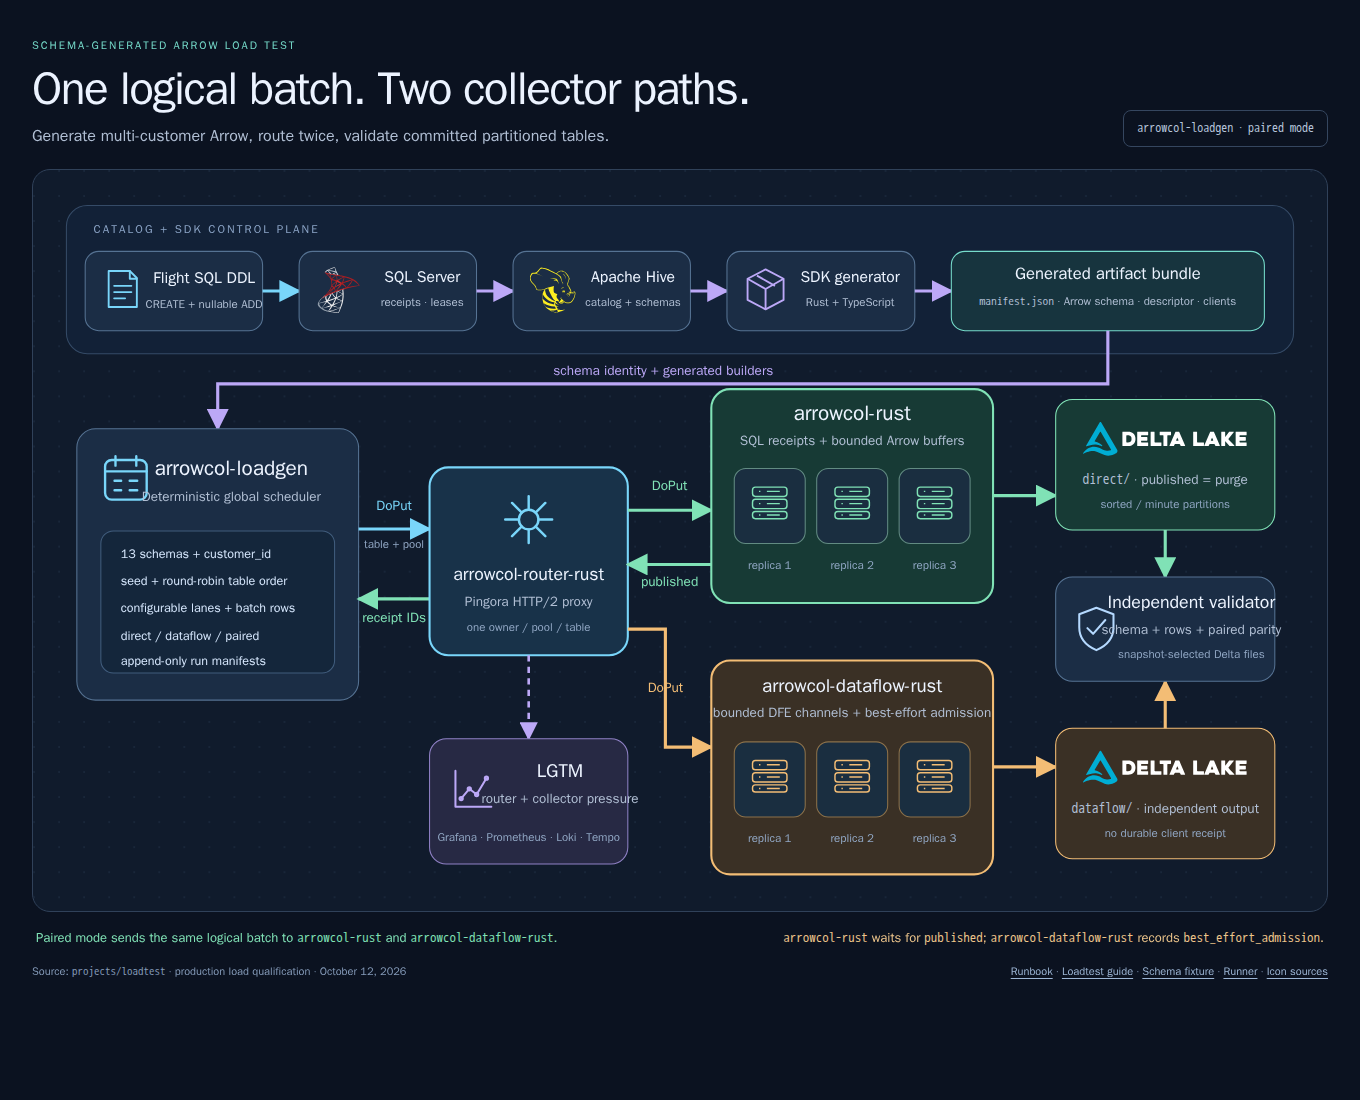
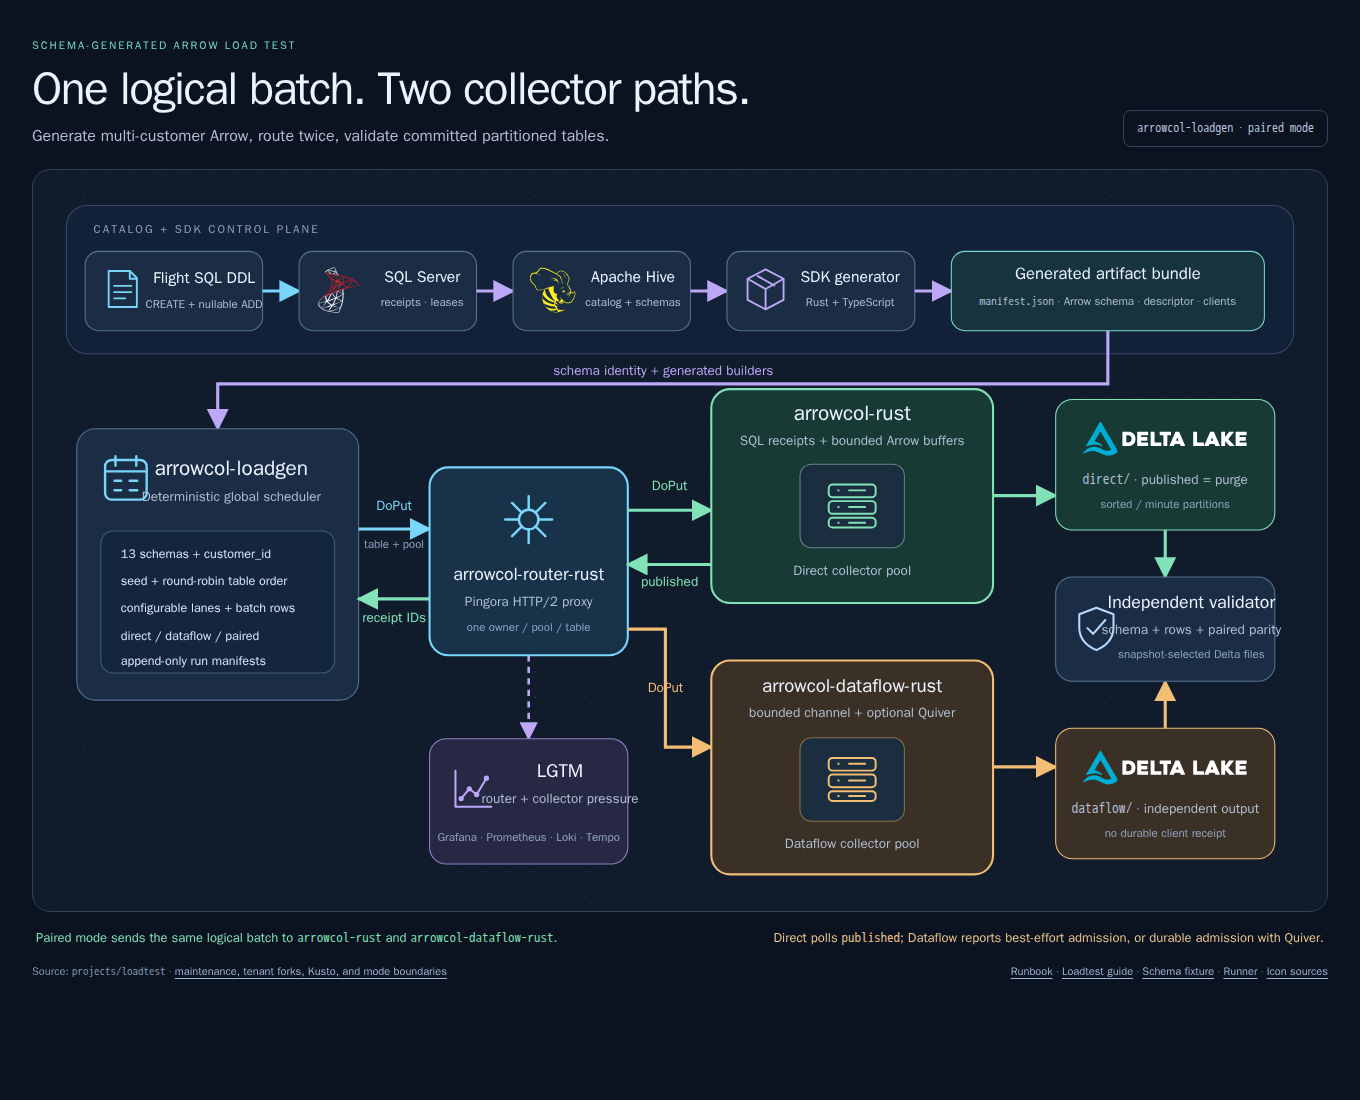
docs: remove obsolete runner flags and fixed replica assumptions

diff --git a/docs/architecture/loadtest/arrow-load-generator.html b/docs/architecture/loadtest/arrow-load-generator.html
@@ -56,7 +56,7 @@
   <div class="canvas" tabindex="0" role="region" aria-label="Load generator architecture diagram; scroll horizontally on small screens">
     <svg xmlns="http://www.w3.org/2000/svg" viewBox="0 0 1240 710" role="img" aria-labelledby="diagram-title diagram-description">
       <title id="diagram-title">Arrow load generator architecture</title>
-      <desc id="diagram-description">Flight SQL registers thirteen schemas through SQL Server and Apache Hive. The SDK generator exports immutable descriptors and generated Rust and TypeScript SDKs. Arrowcol loadgen creates record batches and sends the same logical batches through arrowcol-router-rust to three arrowcol-rust replicas and three arrowcol-dataflow-rust replicas. Arrowcol-rust receipts are polled until Delta Lake publication, while arrowcol-dataflow-rust reports best-effort admission. Independent Delta Lake roots are compared by a validator, and platform metrics flow to LGTM.</desc>
+      <desc id="diagram-description">Flight SQL registers thirteen multi-customer schemas through SQL Server and Apache Hive. Immutable descriptors generate Rust and TypeScript SDKs. The generator sends the same logical batches through the router to independent Direct and Dataflow pools. Direct receipts are polled until Delta publication; Dataflow reports best-effort admission or durable admission with optional Quiver. Independent sorted, ingestion-time-partitioned Delta roots are compared by a validator, and platform signals flow to LGTM. Pool icons are schematic; runtime configuration determines the replica count.</desc>
       <defs>
         <pattern id="grid" width="24" height="24" patternUnits="userSpaceOnUse">
           <circle cx="1" cy="1" r=".7" fill="#23354c"/>
@@ -181,38 +181,26 @@
       <text x="785" y="240" class="label">arrowcol-rust</text>
       <text x="785" y="264" class="small">SQL receipts + bounded Arrow buffers</text>
       <g fill="#1a2e40" stroke="#628b82">
-        <rect x="672" y="286" width="68" height="72" rx="11"/>
-        <rect x="751" y="286" width="68" height="72" rx="11"/>
-        <rect x="830" y="286" width="68" height="72" rx="11"/>
+        <rect x="735" y="282" width="100" height="80" rx="11"/>
       </g>
       <g fill="none" stroke="#80e2b6" stroke-width="2">
-        <use href="#collector-icon" x="684" y="297" width="44" height="44"/>
-        <use href="#collector-icon" x="763" y="297" width="44" height="44"/>
-        <use href="#collector-icon" x="842" y="297" width="44" height="44"/>
+        <use href="#collector-icon" x="755" y="292" width="60" height="60"/>
       </g>
-      <text x="706" y="382" class="tiny">replica 1</text>
-      <text x="785" y="382" class="tiny">replica 2</text>
-      <text x="864" y="382" class="tiny">replica 3</text>
+      <text x="785" y="388" class="small">Direct collector pool</text>
 
       <!-- arrowcol-dataflow-rust. -->
       <path d="M570 440H606V553H650" fill="none" stroke="#f3bd75" stroke-width="3" marker-end="url(#orange)"/>
       <text x="606" y="500" class="flow" fill="#f3bd75">DoPut</text>
       <rect x="650" y="470" width="270" height="205" rx="18" fill="#3a3025" stroke="#f3bd75" stroke-width="2"/>
       <text x="785" y="500" class="label" style="font-size:18px">arrowcol-dataflow-rust</text>
-      <text x="785" y="524" class="small">bounded DFE channels + best-effort admission</text>
+      <text x="785" y="524" class="small">bounded channel + optional Quiver</text>
       <g fill="#1a2e40" stroke="#8c714a">
-        <rect x="672" y="548" width="68" height="72" rx="11"/>
-        <rect x="751" y="548" width="68" height="72" rx="11"/>
-        <rect x="830" y="548" width="68" height="72" rx="11"/>
+        <rect x="735" y="544" width="100" height="80" rx="11"/>
       </g>
       <g fill="none" stroke="#f3bd75" stroke-width="2">
-        <use href="#collector-icon" x="684" y="559" width="44" height="44"/>
-        <use href="#collector-icon" x="763" y="559" width="44" height="44"/>
-        <use href="#collector-icon" x="842" y="559" width="44" height="44"/>
+        <use href="#collector-icon" x="755" y="554" width="60" height="60"/>
       </g>
-      <text x="706" y="644" class="tiny">replica 1</text>
-      <text x="785" y="644" class="tiny">replica 2</text>
-      <text x="864" y="644" class="tiny">replica 3</text>
+      <text x="785" y="650" class="small">Dataflow collector pool</text>
 
       <!-- Delta roots and validator. -->
       <path d="M920 312H980" stroke="#80e2b6" stroke-width="3" marker-end="url(#green)"/>
@@ -247,10 +235,10 @@
 
   <div class="note">
     <strong>Paired mode sends the same logical batch to <code>arrowcol-rust</code> and <code>arrowcol-dataflow-rust</code>.</strong>
-    <span class="warning"><code>arrowcol-rust</code> waits for <code>published</code>; <code>arrowcol-dataflow-rust</code> records <code>best_effort_admission</code>.</span>
+    <span class="warning">Direct polls <code>published</code>; Dataflow reports best-effort admission, or durable admission with Quiver.</span>
   </div>
   <footer>
-    <span>Source: <code>projects/loadtest</code> &middot; production load qualification &middot; October 12, 2026</span>
+    <span>Source: <code>projects/loadtest</code> &middot; <a href="../../../loadtest-architecture.html">maintenance, tenant forks, Kusto, and mode boundaries</a></span>
     <span>
       <a href="README.md">Runbook</a>
       &middot; <a href="../../../projects/loadtest/README.md">Loadtest guide</a>

diff --git a/README.md b/README.md
@@ -68,7 +68,7 @@ generated clients
       v
 Pingora router -- one fenced owner per implementation pool and table
       |                                      |
-      +--> 3 direct collectors               +--> 3 DFE collectors
+      +--> Direct collector pool             +--> DFE collector pool
       |      SQL receipts                         best-effort admission
       |      bounded Arrow buffers                bounded DFE channels
       |                                      |
@@ -124,21 +124,22 @@ npx --no-install nx run arrowcol-infra:down
 # Verify deterministic catalog artifact and Rust/TypeScript SDK generation.
 npx --no-install nx run arrowcol-sdk-gen:verify
 
-# Run OTEL acceptance, then the finite Arrow platform and chaos qualification.
+# Run finite paired Arrow and Quiver crash/recovery qualification.
 npx --no-install nx run loadtest:e2e
 ```
 
 The Arrow phase registers
 [`projects/loadtest/schemas/sqlserver.sql`](projects/loadtest/schemas/sqlserver.sql)
 through Flight SQL, exports the immutable catalog artifacts, generates and
-checks both SDK packages, starts the router with three direct and three DFE
-collectors, and validates both Delta roots. It also exercises schema rejection,
-duplicate direct deliveries, lease expiry, owner restart, stale fencing,
-graceful drain, and SQL interruption/recovery.
+checks both SDK packages, starts the router and both collector pools, and
+validates both Delta roots. The second E2E phase enables Quiver and kills and
+restarts both collectors during traffic to exercise durable replay.
 
-Finite runs stop their scoped Compose stack and retain diagnostics beneath
-`onelake/e2e/` and `onelake/benchmark/<run-id>/results/`. The run prints its
-exact output directory. Focused collector live E2Es retain their own evidence
+The current runner retains output beneath `onelake/benchmark/latest/` and prints
+its exact output directory. A fresh local start replaces the previous scoped
+loadtest and its data; copy required evidence before another run. Follow the
+[loadtest lifecycle guide](projects/loadtest/README.md) to stop retained services
+before deleting output. Focused collector live E2Es retain their own evidence
 under `projects/arrowcol-rust/.diagnostics/<run-id>/` and
 `projects/arrowcol-dataflow-rust/.diagnostics/<run-id>/`.
 
@@ -146,20 +147,14 @@ under `projects/arrowcol-rust/.diagnostics/<run-id>/` and
 
 ```bash
 npx --no-install nx run loadtest:run -- \
-  --run-id live --warmup 2m --continuous --keep-stack
+  --warmup 2m --concurrency 8 --batch-rows 1024
 ```
 
-The retained stack exposes Grafana at `http://127.0.0.1:3000` and Prometheus
-at `http://127.0.0.1:9090`. Grafana provisions separate **Arrow Flight** and
-**OTEL Collector Baseline** folders; the OTEL dashboard is intentionally
-separate and has data only when `--otel-baseline` is requested.
-
-Stop and remove the retained stack before deleting its output:
-
-```bash
-npx --no-install tsx projects/loadtest/src/main.ts benchmark-down --run-id live
-npx --no-install nx run loadtest:clean
-```
+Omitting `--measure` runs generation until interrupted. The retained local stack
+exposes Grafana at `http://127.0.0.1:3000` and Prometheus at
+`http://127.0.0.1:9090`. Arrow Flight and optional OTEL baseline signals remain
+separate. Use the canonical loadtest guide for current lifecycle and mode
+options rather than the removed `benchmark-down`/`--run-id` interface.
 
 See the [loadtest guide](projects/loadtest/README.md) for diagnostics and the
 [load generator diagram and runbook](docs/architecture/loadtest/README.md) for
